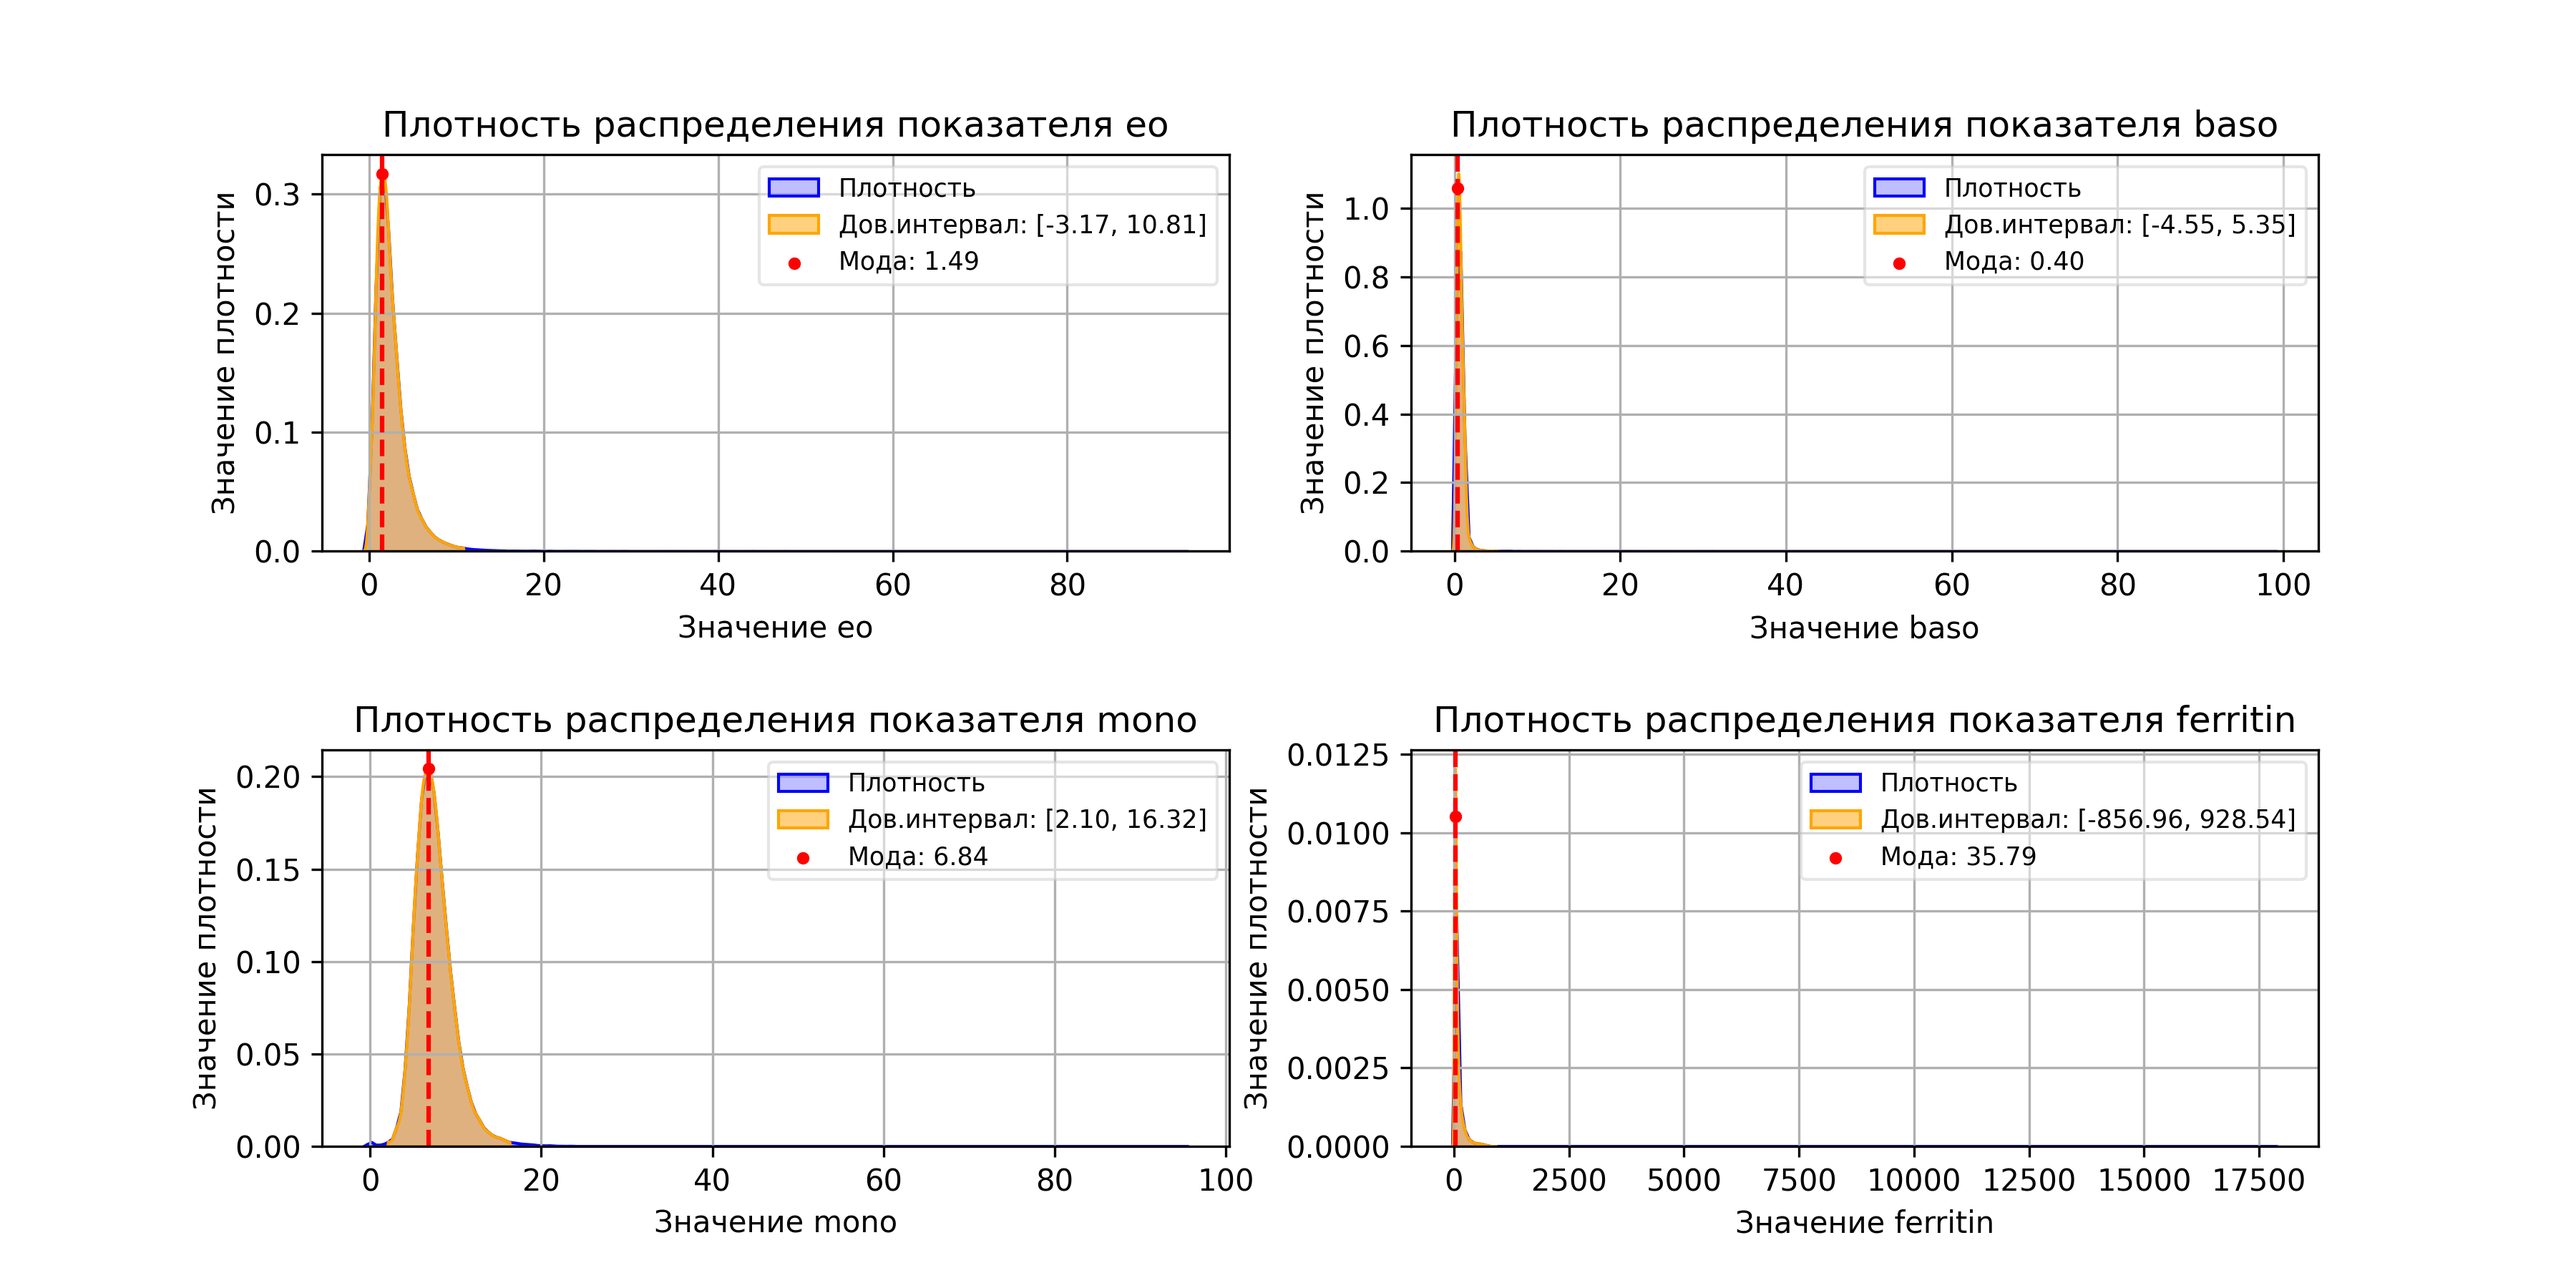
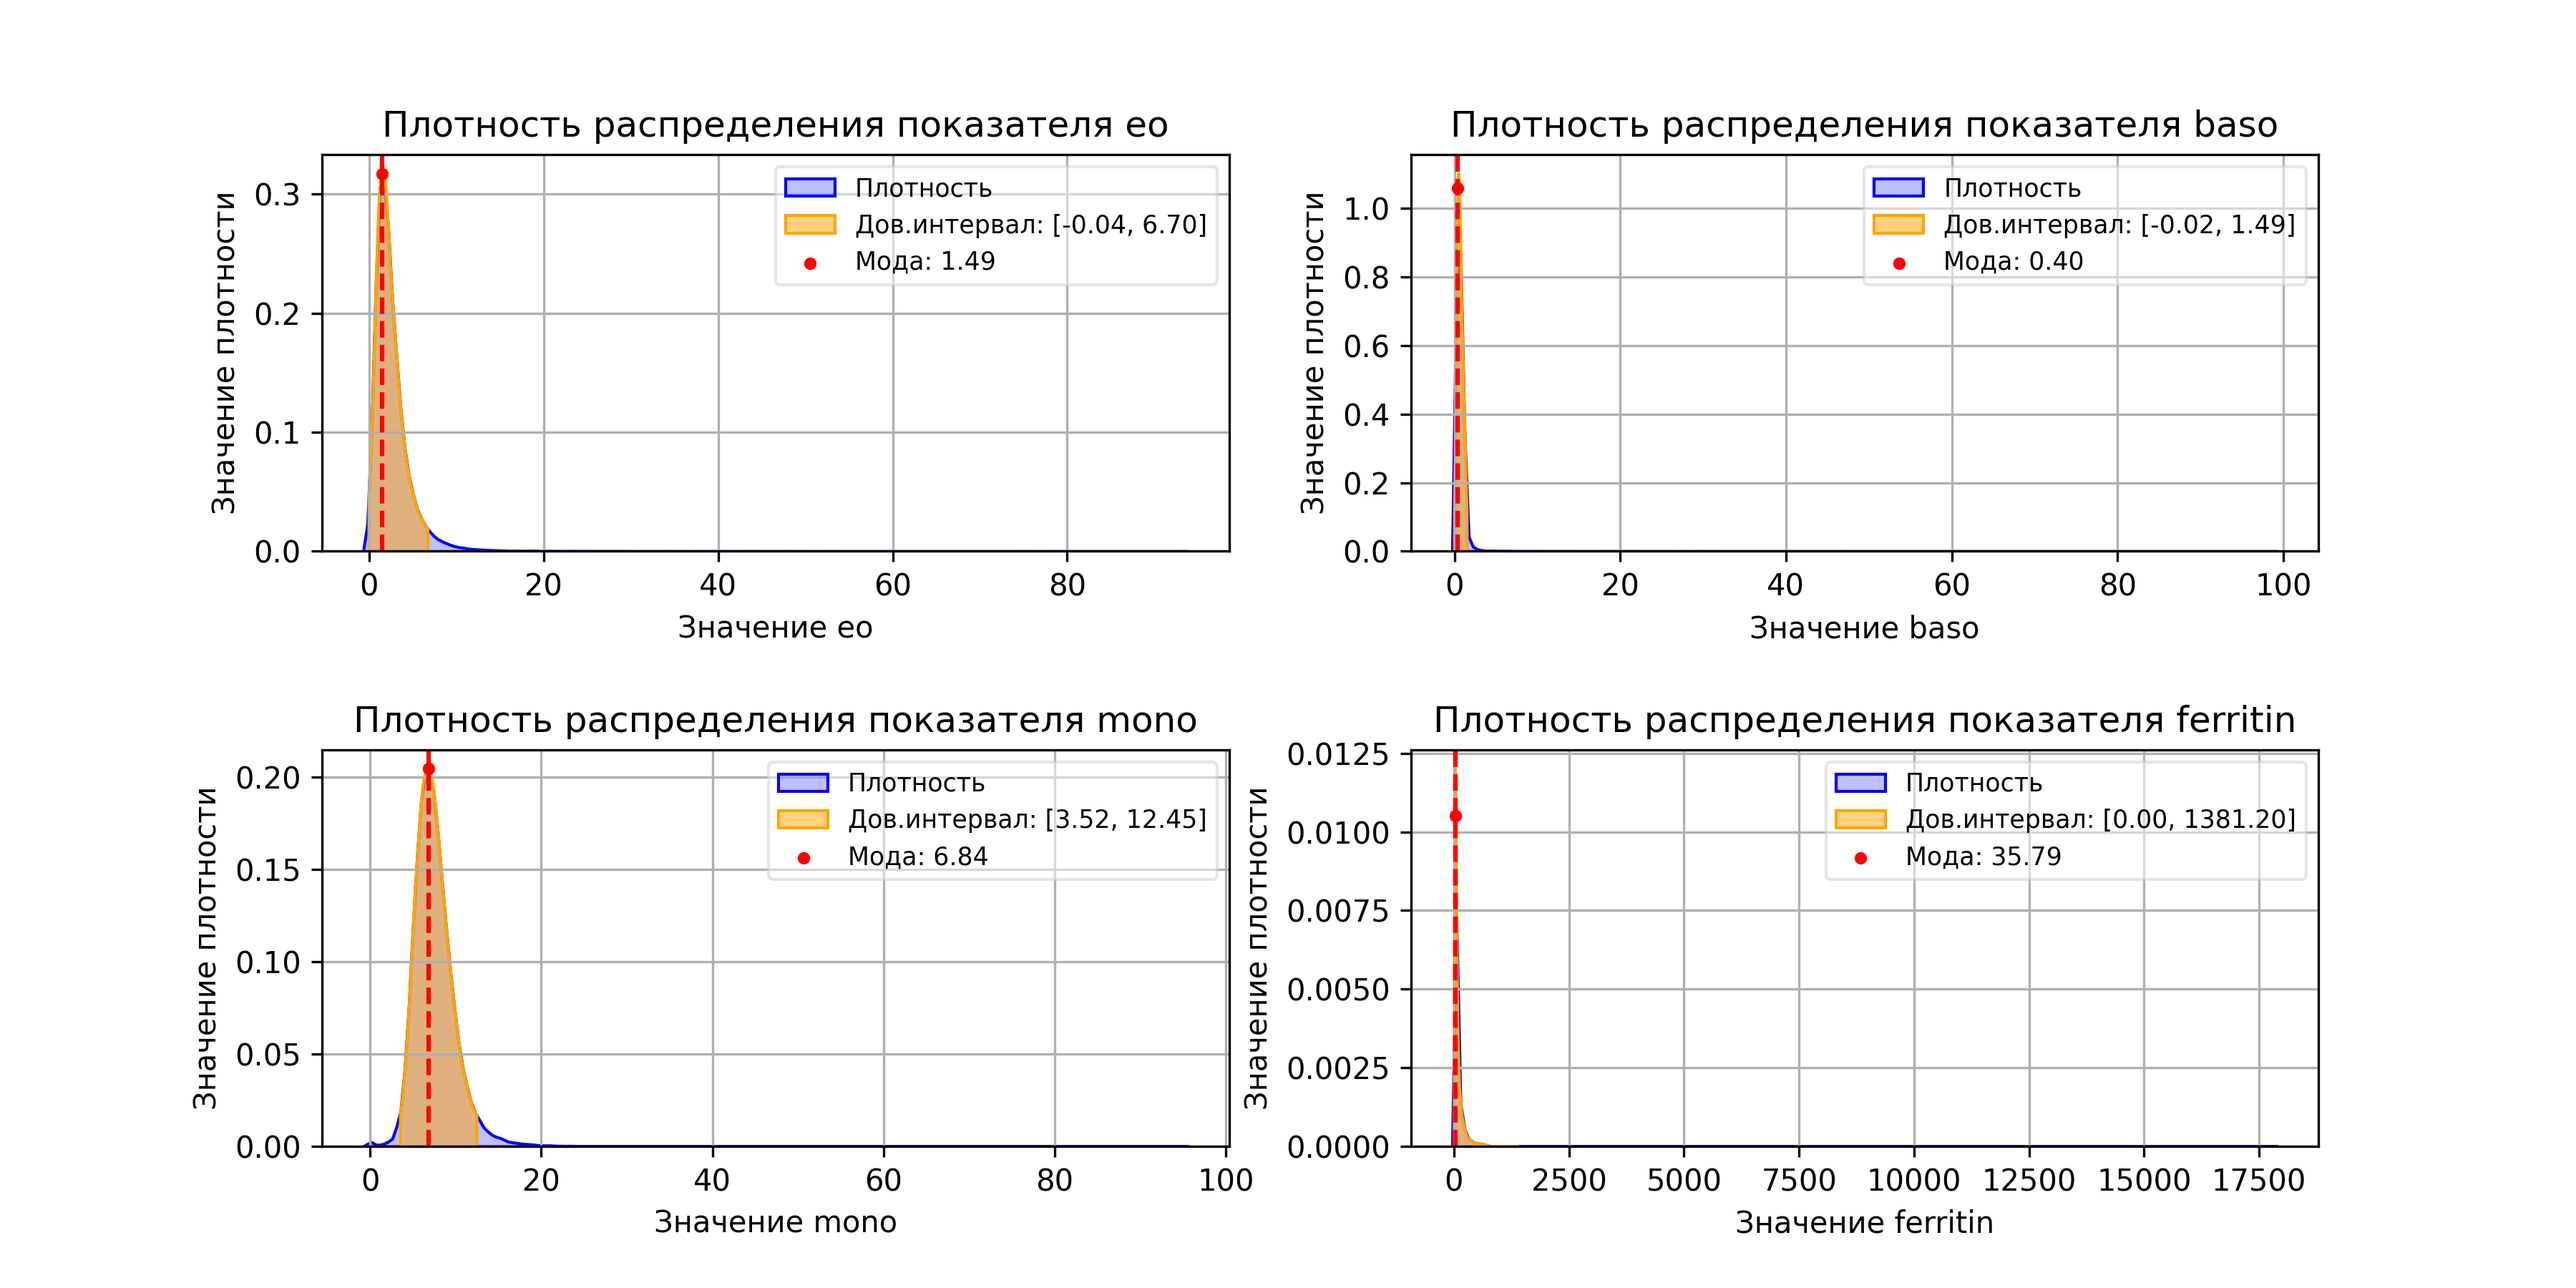
fix confidence intervals

diff --git a/utils/statistic.py b/utils/statistic.py
@@ -77,21 +77,21 @@ def find_confidence_interval(
 
     # Начинаем поиск доверительного интервала:
     x1 = x2 = max_density_point
-    dx = 0.05 * (np.max(x) - np.min(x))
+    dx = 0.005 * max_density_point
     P = 0.95
-    p = 0
+    p, eps = 0, -0.05
     while p / S < P:
         a, b = x1 - dx, x2 + dx
         left_area = kde.integrate_box_1d(a, x1)
         right_area = kde.integrate_box_1d(x2, b)
-        if left_area > right_area:
+        if left_area > right_area and a > eps:
             x1 = a
             p += left_area
-        elif left_area < right_area:
-            x2 = b
-            p += right_area
-        else:
+        elif left_area == right_area and a > eps:
             x1, x2 = a, b
             p = p + left_area + right_area
+        else:
+            x2 = b
+            p += right_area
 
     return x1, x2, max_density, max_density_point
